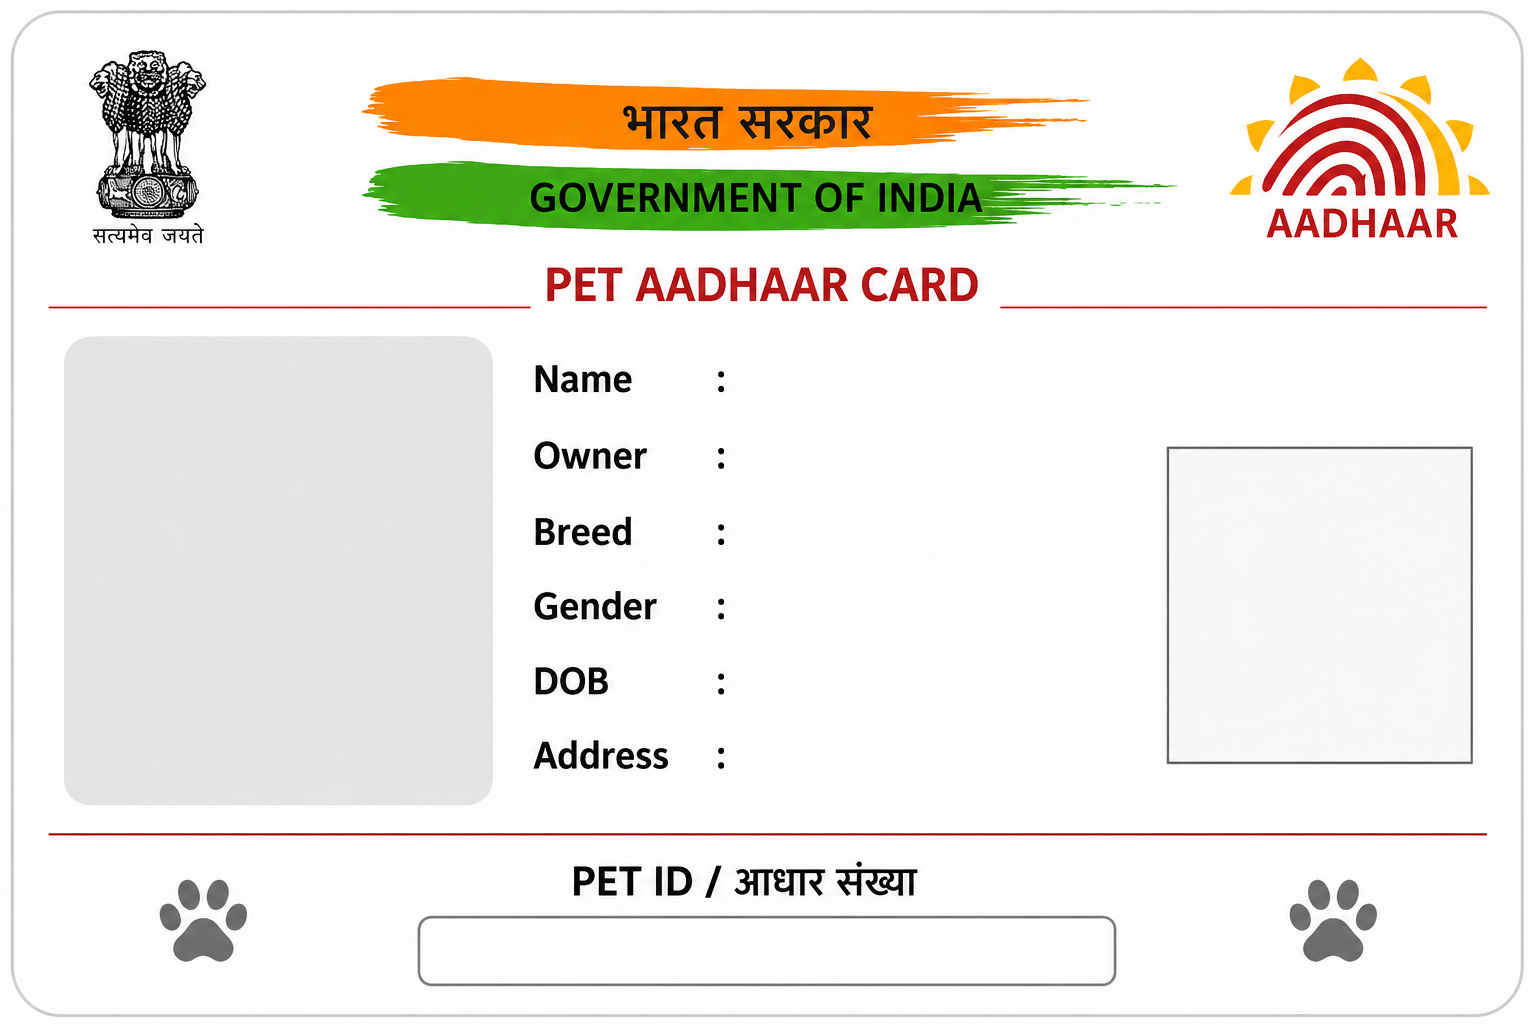
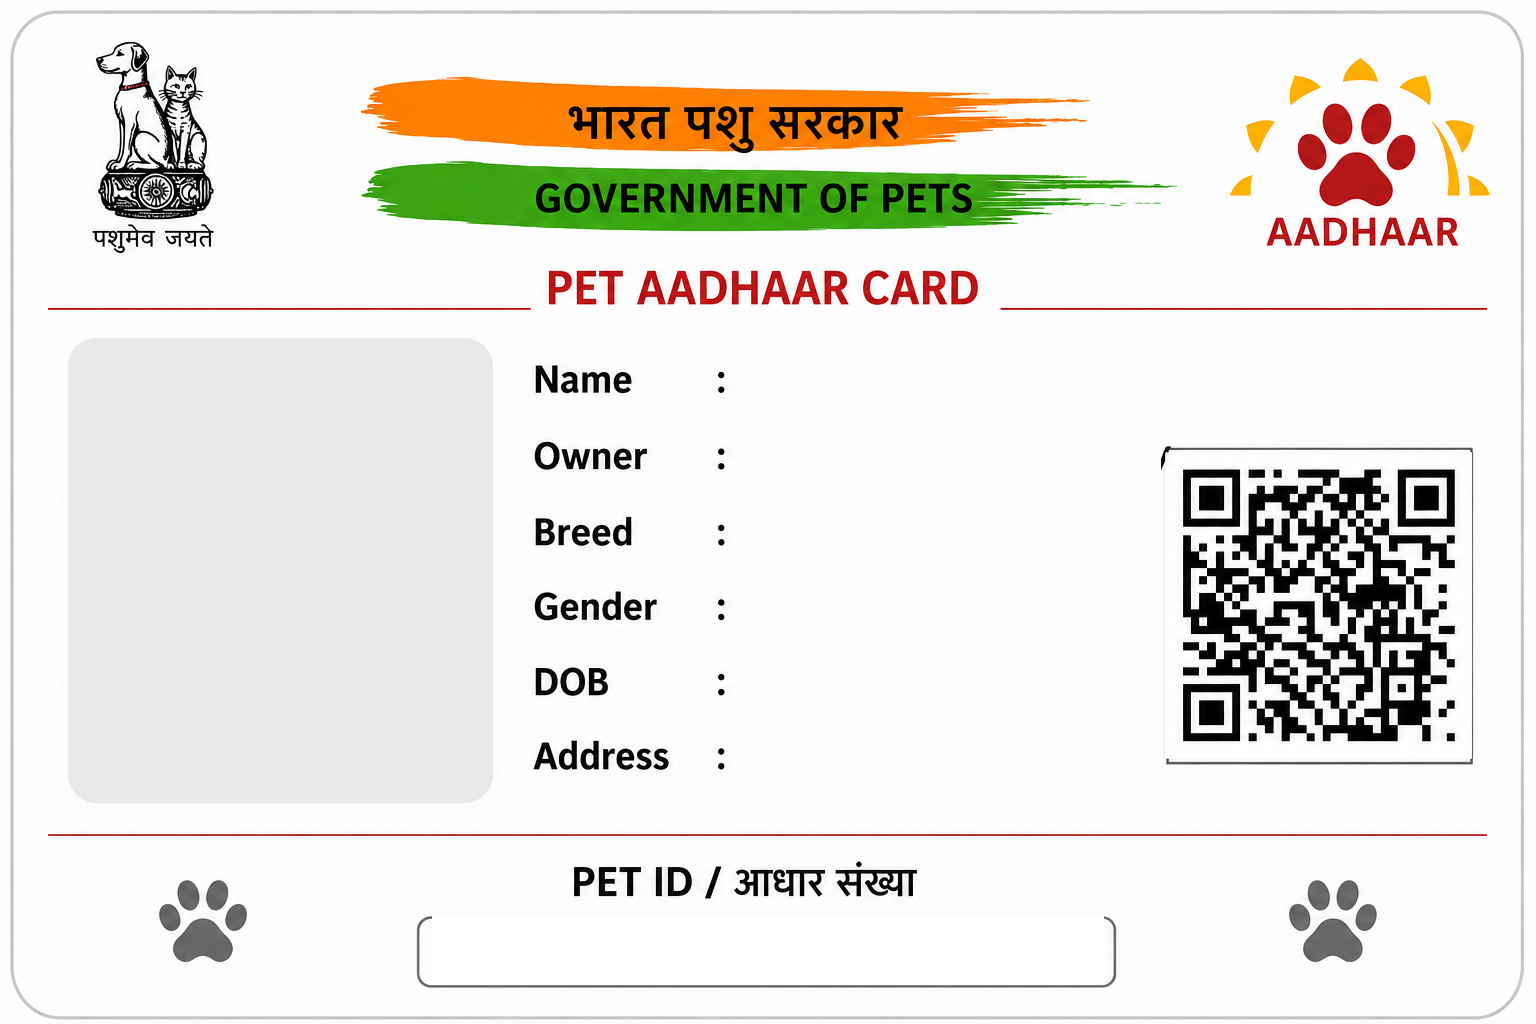
Switch card art to parody-safe Government of Pets templates (front + back)

diff --git a/js/petcard-card.js b/js/petcard-card.js
@@ -118,7 +118,7 @@
   // QR at the website homepage instead of the verification page.
   function renderCard(canvas, data, opts) {
     opts = opts || {};
-    var templateUrl = opts.templateUrl || "assets/petcard/template.png";
+    var templateUrl = opts.templateUrl || "assets/petcard/template.png?v=4";
     canvas.width = TPL_W; canvas.height = TPL_H;
     var ctx = canvas.getContext("2d");
 
@@ -198,92 +198,55 @@
     });
   }
 
-  // Back side of the card — drawn programmatically in the same Aadhaar-style
-  // palette (saffron header, green footer): lost & found message, owner phone,
-  // address, verification QR and the Pet ID number.
+  // Back side of the card — drawn on the back template image (saffron header,
+  // green footer, blank value areas): owner phone, address, verification QR,
+  // pet name and Pet ID.
   function renderCardBack(canvas, data, opts) {
     opts = opts || {};
+    var templateUrl = opts.templateUrl || "assets/petcard/template-back.png?v=4";
     canvas.width = TPL_W; canvas.height = TPL_H;
     var ctx = canvas.getContext("2d");
 
-    // Base.
-    ctx.fillStyle = "#ffffff";
-    ctx.fillRect(0, 0, TPL_W, TPL_H);
+    return loadImage(templateUrl).then(function (tpl) {
+      ctx.clearRect(0, 0, TPL_W, TPL_H);
+      ctx.drawImage(tpl, 0, 0, TPL_W, TPL_H);
 
-    // Saffron header band.
-    var hdr = ctx.createLinearGradient(0, 0, TPL_W, 0);
-    hdr.addColorStop(0, "#FF9933"); hdr.addColorStop(1, "#ffb35c");
-    ctx.fillStyle = hdr;
-    ctx.fillRect(0, 0, TPL_W, 118);
-    ctx.fillStyle = "#ffffff";
-    ctx.textAlign = "center"; ctx.textBaseline = "middle";
-    ctx.font = '700 52px Poppins, Arial, sans-serif';
-    ctx.fillText("PET AADHAAR CARD", TPL_W / 2, 48);
-    ctx.font = '600 30px Poppins, Arial, sans-serif';
-    ctx.fillText("Emily's Pet Heaven \u00b7 Barrackpore, Kolkata", TPL_W / 2, 90);
+      var LX = 80;
+      ctx.textAlign = "left"; ctx.textBaseline = "alphabetic";
 
-    // Green footer band.
-    ctx.fillStyle = "#138808";
-    ctx.fillRect(0, TPL_H - 92, TPL_W, 92);
-    ctx.fillStyle = "#ffffff";
-    ctx.font = '600 30px Poppins, Arial, sans-serif';
-    ctx.fillText("emilyspetheaven.com  \u00b7  Novelty keepsake \u2014 not a government document", TPL_W / 2, TPL_H - 46);
+      // Phone (below the "Call / WhatsApp my owner:" label).
+      ctx.fillStyle = "#1a1a1a";
+      ctx.font = '700 58px Poppins, Arial, sans-serif';
+      ctx.fillText(data.phone || "\u2014", LX, 415);
 
-    // Thin tricolor divider under the header.
-    ctx.fillStyle = "#FFAE01"; ctx.fillRect(0, 118, TPL_W, 8);
+      // Address (below the "Home address:" label, up to 3 lines).
+      ctx.font = '600 38px Poppins, "Noto Sans Devanagari", Arial, sans-serif';
+      var addrLines = wrapLines(ctx, data.address || "\u2014", 880).slice(0, 3);
+      for (var i = 0; i < addrLines.length; i++) ctx.fillText(addrLines[i], LX, 528 + i * 52);
 
-    // Left column: lost & found message, phone, address.
-    var LX = 80, RIGHT_EDGE = 1080;
-    ctx.textAlign = "left";
-    ctx.fillStyle = "#4E0000";
-    ctx.font = '700 54px Poppins, Arial, sans-serif';
-    ctx.fillText("If found, please help me get home!", LX, 210);
-
-    ctx.fillStyle = "#8a6d3b";
-    ctx.font = '600 32px Poppins, Arial, sans-serif';
-    ctx.fillText("Call / WhatsApp my owner" + (data.owner ? " (" + data.owner + ")" : "") + ":", LX, 300);
-    ctx.fillStyle = "#1a1a1a";
-    ctx.font = '700 62px Poppins, Arial, sans-serif';
-    ctx.fillText(data.phone || "\u2014", LX, 370);
-
-    ctx.fillStyle = "#8a6d3b";
-    ctx.font = '600 32px Poppins, Arial, sans-serif';
-    ctx.fillText("Home address:", LX, 470);
-    ctx.fillStyle = "#1a1a1a";
-    ctx.font = '600 38px Poppins, "Noto Sans Devanagari", Arial, sans-serif';
-    var addrLines = wrapLines(ctx, data.address || "\u2014", RIGHT_EDGE - LX).slice(0, 4);
-    for (var i = 0; i < addrLines.length; i++) ctx.fillText(addrLines[i], LX, 530 + i * 52);
-
-    // Pet name + breed line.
-    ctx.fillStyle = "#4E0000";
-    ctx.font = '700 40px Poppins, Arial, sans-serif';
-    var petLine = (data.name || "") + (data.breed ? "  \u00b7  " + data.breed : "") + (data.gender ? "  \u00b7  " + data.gender : "");
-    ctx.fillText(petLine, LX, 790);
-
-    // Pet ID number.
-    ctx.fillStyle = "#111111";
-    ctx.font = '700 58px Poppins, Arial, sans-serif';
-    ctx.fillText(data.petNo || "0000 0000 0000", LX, 870);
-
-    // QR box on the right (mirrors the front's QR position).
-    var qrUrl = opts.review ? SITE : data.verifyUrl;
-    if (qrUrl) {
-      var side = 306;
-      var qx = 1166, qy = 300;
-      ctx.strokeStyle = "#dcc89a"; ctx.lineWidth = 3;
-      ctx.strokeRect(qx - 14, qy - 14, side + 28, side + 28);
-      var qc = makeQRCanvas(qrUrl, side);
-      ctx.imageSmoothingEnabled = false;
-      ctx.drawImage(qc, qx, qy, side, side);
-      ctx.imageSmoothingEnabled = true;
-      ctx.fillStyle = "#8a6d3b";
+      // Pet name (on the first underline) and Pet ID (on the second).
       ctx.textAlign = "center";
-      ctx.font = '600 28px Poppins, Arial, sans-serif';
-      ctx.fillText("Scan to verify my identity", qx + side / 2, qy + side + 52);
-      ctx.textAlign = "left";
-    }
+      ctx.fillStyle = "#4E0000";
+      ctx.font = '700 42px Poppins, Arial, sans-serif';
+      var petLine = (data.name || "") + (data.breed ? "  \u00b7  " + data.breed : "") + (data.gender ? "  \u00b7  " + data.gender : "");
+      ctx.fillText(petLine, 417, 736, 480);
+      ctx.fillStyle = "#111111";
+      ctx.font = '700 54px Poppins, Arial, sans-serif';
+      ctx.fillText(data.petNo || "0000 0000 0000", 417, 828, 480);
 
-    return Promise.resolve(canvas);
+      // QR inside the bordered box on the right (box ~1046..1446 x 296..722).
+      var qrUrl = opts.review ? SITE : data.verifyUrl;
+      if (qrUrl) {
+        var side = 360;
+        var qx = 1046 + (400 - side) / 2, qy = 296 + (426 - side) / 2;
+        var qc = makeQRCanvas(qrUrl, side);
+        ctx.imageSmoothingEnabled = false;
+        ctx.drawImage(qc, qx, qy, side, side);
+        ctx.imageSmoothingEnabled = true;
+      }
+
+      return canvas;
+    });
   }
 
   function verifyUrlFor(id) { return SITE + "/pet/?id=" + encodeURIComponent(id); }

diff --git a/pet-aadhaar/admin.html b/pet-aadhaar/admin.html
@@ -200,8 +200,8 @@
       }
       function renderPreview() {
         var data = previewData();
-        PetCard.renderCard($("prev"), data, { templateUrl: "../assets/petcard/template.png" });
-        PetCard.renderCardBack($("prevBack"), data);
+        PetCard.renderCard($("prev"), data, { templateUrl: "../assets/petcard/template.png?v=4" });
+        PetCard.renderCardBack($("prevBack"), data, { templateUrl: "../assets/petcard/template-back.png?v=4" });
       }
       var t; ["aName","aOwner","aBreed","aGender","aDob","aAddress","aPhone"].forEach(function (id) {
         $(id).addEventListener("input", function () { clearTimeout(t); t = setTimeout(renderPreview, 120); });
@@ -271,7 +271,7 @@
       $("dlPng").addEventListener("click", function () { saveCanvas($("prev"), dlName("")); });
       $("dlPngBack").addEventListener("click", function () { saveCanvas($("prevBack"), dlName("-back")); });
       $("dlReview").addEventListener("click", function () {
-        PetCard.renderCard($("dlCanvas"), previewData(), { templateUrl: "../assets/petcard/template.png", review: true }).then(function (cv) {
+        PetCard.renderCard($("dlCanvas"), previewData(), { templateUrl: "../assets/petcard/template.png?v=4", review: true }).then(function (cv) {
           saveCanvas(cv, dlName("-review"));
         });
       });
@@ -381,8 +381,8 @@
       function renderOrder(item) {
         var data = { name: item.name, owner: item.owner, breed: item.breed, gender: item.gender, dob: item.dob, address: item.address, phone: item.phone, photoUrl: item.photo, petNo: item.petNo, verifyUrl: PetCard.verifyUrlFor(item.id) };
         var front = document.createElement("canvas"), back = document.createElement("canvas");
-        return PetCard.renderCard(front, data, { templateUrl: "../assets/petcard/template.png" }).then(function () {
-          return PetCard.renderCardBack(back, data);
+        return PetCard.renderCard(front, data, { templateUrl: "../assets/petcard/template.png?v=4" }).then(function () {
+          return PetCard.renderCardBack(back, data, { templateUrl: "../assets/petcard/template-back.png?v=4" });
         }).then(function () {
           return { front: front, back: back, meta: { name: item.name, petNo: item.petNo } };
         });
@@ -463,9 +463,9 @@
               buildA4Pdf([order], pdfNameFor(item.name, item.petNo));
             });
           } else if (act === "dlback") {
-            PetCard.renderCardBack($("dlCanvas"), data).then(function (cv) { saveCanvas(cv, base + "-back.png"); });
+            PetCard.renderCardBack($("dlCanvas"), data, { templateUrl: "../assets/petcard/template-back.png?v=4" }).then(function (cv) { saveCanvas(cv, base + "-back.png"); });
           } else {
-            PetCard.renderCard($("dlCanvas"), data, { templateUrl: "../assets/petcard/template.png", review: act === "review" }).then(function (cv) {
+            PetCard.renderCard($("dlCanvas"), data, { templateUrl: "../assets/petcard/template.png?v=4", review: act === "review" }).then(function (cv) {
               saveCanvas(cv, base + (act === "review" ? "-review" : "") + ".png");
             });
           }

diff --git a/pet/index.html b/pet/index.html
@@ -119,7 +119,7 @@
             dob: c.dob, address: c.address, petNo: c.petNo, photoUrl: c.photo,
             verifyUrl: PetCard.verifyUrlFor(c.id)
           };
-          var render = function () { PetCard.renderCard(document.getElementById("cardCanvas"), data, { templateUrl: "../assets/petcard/template.png" }); };
+          var render = function () { PetCard.renderCard(document.getElementById("cardCanvas"), data, { templateUrl: "../assets/petcard/template.png?v=4" }); };
           if (document.fonts && document.fonts.ready) document.fonts.ready.then(render); else render();
           loader.style.display = "none";
         })

diff --git a/pet-aadhaar/index.html b/pet-aadhaar/index.html
@@ -285,7 +285,7 @@
           petNo: "0000 0000 0000",
           verifyUrl: PetCard.SITE + "/pet-aadhaar/"
         });
-        PetCard.renderCard(canvas, data, { templateUrl: "../assets/petcard/template.png" });
+        PetCard.renderCard(canvas, data, { templateUrl: "../assets/petcard/template.png?v=4" });
       }
       function scheduleRender() { clearTimeout(renderTimer); renderTimer = setTimeout(render, 120); }
 
